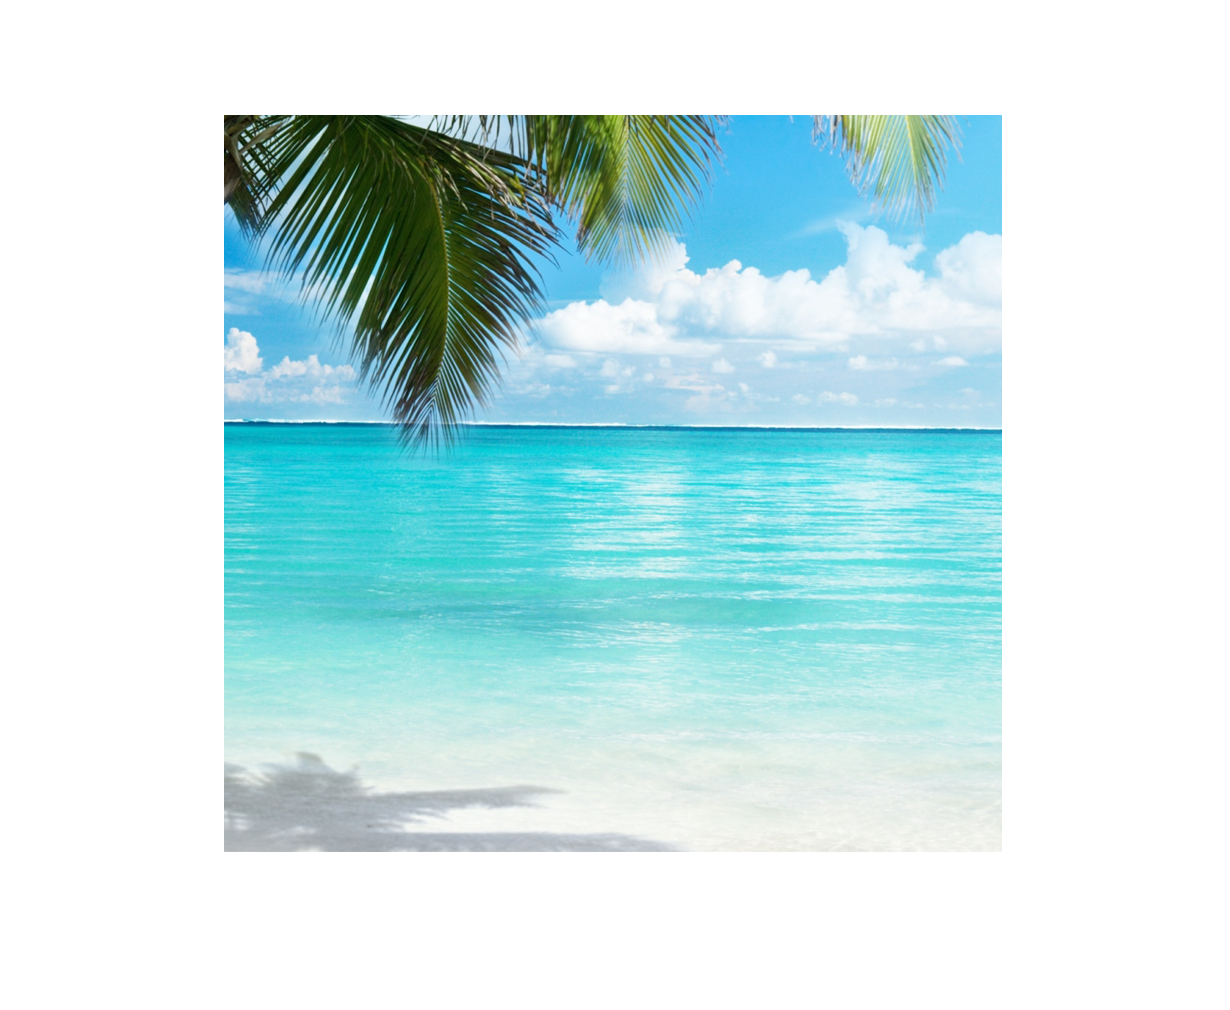
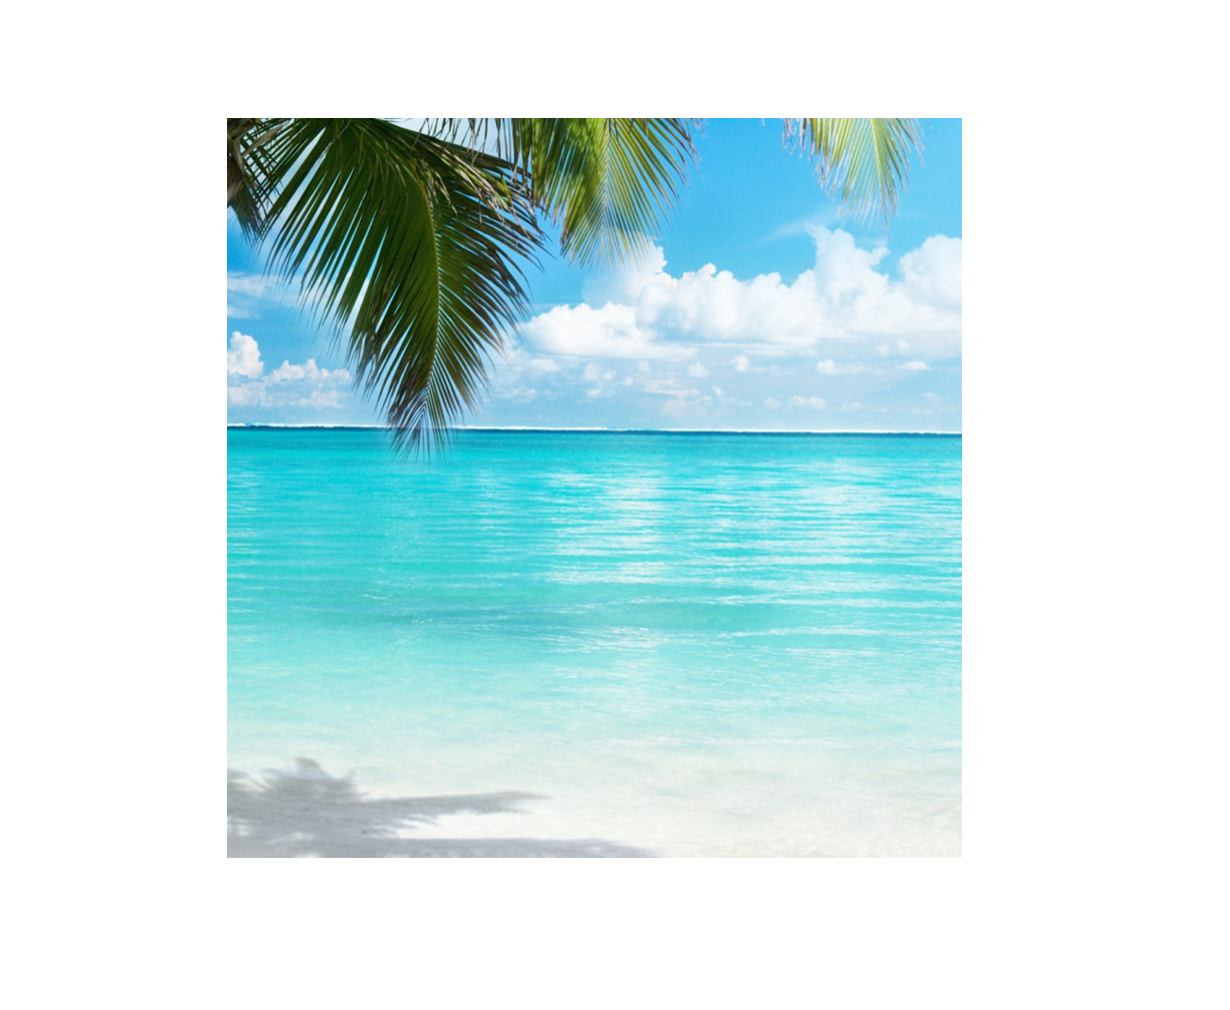
feature: Updating imagery.

diff --git a/src/Data/products.js b/src/Data/products.js
@@ -17,22 +17,22 @@ export default [
 			{
 				color: 'ba',
 				fileName: '7600-2xo-bronze-ano.png',
-				width: 778,
+				width: 1230,
 			},
 			{
 				color: 'sa',
 				fileName: '7600-2xo-satin-ano.png',
-				width: 778,
+				width: 1230,
 			},
 			{
 				color: 'warmtone',
 				fileName: '7600-2xo-warmtone.png',
-				width: 778,
+				width: 1230,
 			},
 			{
 				color: 'white',
 				fileName: '7600-2xo-white.png',
-				width: 778,
+				width: 1230,
 			},
 		],
 		selectionGroups: [
@@ -98,22 +98,22 @@ export default [
 			{
 				color: 'ba',
 				fileName: '7600-2xo-bronze-ano.png',
-				width: 778,
+				width: 1230,
 			},
 			{
 				color: 'sa',
 				fileName: '7600-2xo-satin-ano.png',
-				width: 778,
+				width: 1230,
 			},
 			{
 				color: 'warmtone',
 				fileName: '7600-2xo-warmtone.png',
-				width: 778,
+				width: 1230,
 			},
 			{
 				color: 'white',
 				fileName: '7600-2xo-white.png',
-				width: 778,
+				width: 1230,
 			},
 		],
 		selectionGroups: [
@@ -178,22 +178,22 @@ export default [
 			{
 				color: 'ba',
 				fileName: '7600-2xo-bronze-ano.png',
-				width: 778,
+				width: 1230,
 			},
 			{
 				color: 'sa',
 				fileName: '7600-2xo-satin-ano.png',
-				width: 778,
+				width: 1230,
 			},
 			{
 				color: 'warmtone',
 				fileName: '7600-2xo-warmtone.png',
-				width: 778,
+				width: 1230,
 			},
 			{
 				color: 'white',
 				fileName: '7600-2xo-white.png',
-				width: 778,
+				width: 1230,
 			},
 		],
 		selectionGroups: [
@@ -264,17 +264,17 @@ export default [
 			{
 				color: 'black',
 				fileName: '7600-2xo-bronze-ano.png',
-				width: 778,
+				width: 1230,
 			},
 			{
 				color: 'white',
 				fileName: '7600-2xo-satin-ano.png',
-				width: 778,
+				width: 1230,
 			},
 			{
 				color: 'almond',
 				fileName: '7600-2xo-warmtone.png',
-				width: 778,
+				width: 1230,
 			},
 		],
 		selectionGroups: [
@@ -320,22 +320,22 @@ export default [
 			{
 				color: 'ba',
 				fileName: '7600-2xo-bronze-ano.png',
-				width: 778,
+				width: 1230,
 			},
 			{
 				color: 'sa',
 				fileName: '7600-2xo-satin-ano.png',
-				width: 778,
+				width: 1230,
 			},
 			{
 				color: 'warmtone',
 				fileName: '7600-2xo-warmtone.png',
-				width: 778,
+				width: 1230,
 			},
 			{
 				color: 'white',
 				fileName: '7600-2xo-white.png',
-				width: 778,
+				width: 1230,
 			},
 		],
 		selectionGroups: [
@@ -394,22 +394,22 @@ export default [
 			{
 				color: 'ba',
 				fileName: '7600-2xo-bronze-ano.png',
-				width: 778,
+				width: 1230,
 			},
 			{
 				color: 'sa',
 				fileName: '7600-2xo-satin-ano.png',
-				width: 778,
+				width: 1230,
 			},
 			{
 				color: 'warmtone',
 				fileName: '7600-2xo-warmtone.png',
-				width: 778,
+				width: 1230,
 			},
 			{
 				color: 'white',
 				fileName: '7600-2xo-white.png',
-				width: 778,
+				width: 1230,
 			},
 		],
 		selectionGroups: [
@@ -467,22 +467,22 @@ export default [
 			{
 				color: 'ba',
 				fileName: '7600-2xo-bronze-ano.png',
-				width: 778,
+				width: 1230,
 			},
 			{
 				color: 'sa',
 				fileName: '7600-2xo-satin-ano.png',
-				width: 778,
+				width: 1230,
 			},
 			{
 				color: 'warmtone',
 				fileName: '7600-2xo-warmtone.png',
-				width: 778,
+				width: 1230,
 			},
 			{
 				color: 'white',
 				fileName: '7600-2xo-white.png',
-				width: 778,
+				width: 1230,
 			},
 		],
 		selectionGroups: [

diff --git a/src/Data/optionGroups.js b/src/Data/optionGroups.js
@@ -113,7 +113,7 @@ module.exports = [
 				image: {
 					basePath: '/images/environment/wall',
 					fileName: 'wall-1.png',
-					width: 300,
+					width: 1230,
 				},
 			},
 			{
@@ -122,7 +122,7 @@ module.exports = [
 				image: {
 					basePath: '/images/environment/wall',
 					fileName: 'wall-2.png',
-					width: 300,
+					width: 1230,
 				},
 			},
 		],
@@ -137,7 +137,7 @@ module.exports = [
 				image: {
 					basePath: '/images/environment/floor',
 					fileName: 'floor-1.png',
-					width: 300,
+					width: 1230,
 				},
 			},
 			{
@@ -146,7 +146,7 @@ module.exports = [
 				image: {
 					basePath: '/images/environment/floor',
 					fileName: 'floor-2.png',
-					width: 300,
+					width: 1230,
 				},
 			},
 		],
@@ -161,7 +161,7 @@ module.exports = [
 				image: {
 					basePath: '/images/environment/background',
 					fileName: 'background-1.png',
-					width: 300,
+					width: 1230,
 				},
 			},
 			{
@@ -170,7 +170,7 @@ module.exports = [
 				image: {
 					basePath: '/images/environment/background',
 					fileName: 'background-2.png',
-					width: 300,
+					width: 1230,
 				},
 			},
 		],

diff --git a/src/pages/config/[product-collection]/[product].jsx b/src/pages/config/[product-collection]/[product].jsx
@@ -2,7 +2,7 @@ import React from 'react';
 
 import { Provider, appStore } from '~/Stores/App.store';
 import { LayoutConfig } from '~/Components/LayoutConfig';
-import { ConfigProductImage } from '~/Components/ConfigProductImage';
+import { ConfigProductImagery } from '~/Components/ConfigProductImagery';
 import { ClipboardListSolid } from '~/Components/svg/ClipboardListSolid.svg';
 import { Selector } from '~/Components/Selector';
 import { ReviewConfig } from '~/Components/ReviewConfig';
@@ -17,7 +17,7 @@ export default () => {
 					<div className="block xl:flex">
 						<div className="ConfigPreview">
 							<div className="ConfigImage">
-								<ConfigProductImage />
+								<ConfigProductImagery />
 							</div>
 							<div className="ConfigReview xl:hidden">
 								<button

diff --git a/src/Components/ConfigProductImagery.jsx b/src/Components/ConfigProductImagery.jsx
@@ -1,0 +1,18 @@
+import React from 'react';
+import { observer } from 'mobx-react-lite';
+import 'mobx-react-lite/batchingForReactDom';
+
+import { useMst } from '~/Stores/App.store';
+
+export const ConfigProductImagery = observer(() => {
+	const { product } = useMst().page;
+
+	return (
+		<>
+			<img className="ConfigImage-image z-10" src={product.selectedBackground.image.imageSrc} alt="" />
+			<img className="ConfigImage-image" src={product.selectedWall.image.imageSrc} alt="" />
+			<img className="ConfigImage-image" src={product.selectedFloor.image.imageSrc} alt="" />
+			<img className="ConfigImage-image z-20" src={product.imageSrc} alt="" />
+		</>
+	);
+});

diff --git a/src/styles/ConfigImage.scss b/src/styles/ConfigImage.scss
@@ -2,9 +2,8 @@
 	@apply relative;
 	width: var(--config-image-width);
 	height: var(--config-image-height);
-	padding: 50px;
-	img {
-		@apply w-auto h-full m-auto object-contain;
+	.ConfigImage-image {
+		@apply w-auto h-full m-auto object-contain px-5 pt-8 pb-0 absolute inset-0;
 	}
 	&.is-debug {
 		@apply border border-solid border-red;
@@ -13,8 +12,8 @@
 
 @screen xl {
 	.ConfigImage {
-		img {
-
+		.ConfigImage-image {
+			@apply p-5;
 		}
 	}
 }

diff --git a/src/Models/EnvironmentImage.model.js b/src/Models/EnvironmentImage.model.js
@@ -9,7 +9,7 @@ export const EnvironmentImageModel = types
 		basePath: '/images/environment',
 		fileName: '',
 		width: types.number,
-		useCdn: true,
+		useCdn: false,
 	})
 	.views(self => ({
 		get imageSrc() {
